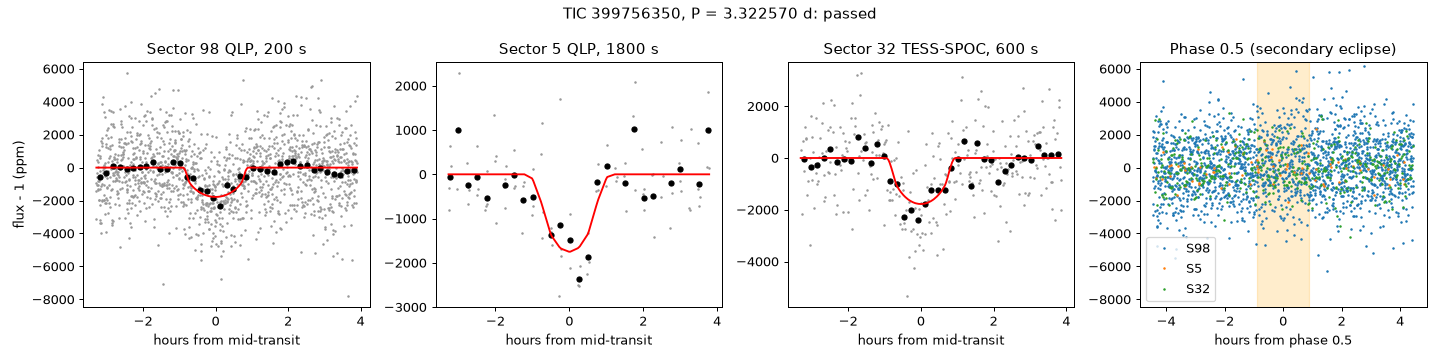
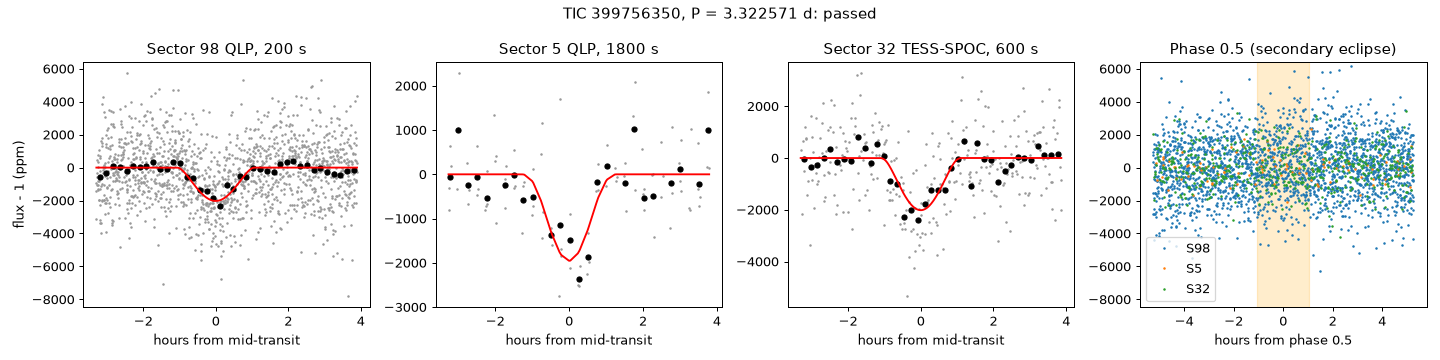
Verify the Sector 98 candidates over all sectors with converged fits: 7 passed, 2 refuted

diff --git a/results/candidate_verification_records/tic450075592_period_11.53197_days.md b/results/candidate_verification_records/tic450075592_period_11.53197_days.md
@@ -8,3 +8,5 @@
 | 2026-10-13 13:40 | 98 | all-sector verification | verify_qlp_sector_candidates_over_all_sectors.py | 9674c6b | refuted | sectors 98 5; P 11.5324515 +/- 0.00845308 d; T0 4016.47915 +/- 0.069076 BTJD; depth 1321 +/- 500 ppm; duration 1.790 h; b 0.450; Rp 4.96 +/- 0.73 Earth radii; density ratio 21.7; odd-even 0.32 sigma; sector depths S98: 1331 +/- 85 (p nan); secondary 223 +/- 73 ppm (planet maximum 1); Gaia RV variable True; LAMOST: none; refuted by: secondary eclipse too deep for a planet; cautions: stellar density does not fit the star; depths differ between sectors; Gaia radial velocity variable |
 | 2026-10-15 18:04 | 98 | search, vetting and known-signal cross-match | cross_match_qlp_sector_signals_with_known_catalogues.py | c5b3cc7 | new candidate | BLS SNR 12.9, MES 12.6, depth 979 ppm, 5 transits; passes the LEO-Vetter false alarm and false positive tests; no TOI, CTOI, TCE or TESS EB match in the catalogues of 2026-10-15 |
 | 2026-10-15 22:52 | 98 | all-sector verification | verify_qlp_sector_candidates_over_all_sectors.py | c651077 | passed | sectors 98 5; P 11.5321413 +/- 0.00190010 d; T0 4016.47900 +/- 0.002973 BTJD; depth 1346 +/- 165 ppm; duration 1.809 h; b 0.476; Rp 5.07 +/- 0.83 Earth radii; density ratio 19.9; odd-even 0.34 sigma; sector depths S98: 1314 +/- 84 (p nan); secondary 171 +/- 70 ppm (planet maximum 1); ellipsoidal -43 +/- 76 ppm (companion mass -3.8 solar masses); Gaia RV variable True, companion mass below 0.533 solar masses; LAMOST: none; refuted by: nothing; cautions: stellar density does not fit the star; depths differ between sectors; Gaia radial velocity variable |
+| 2026-10-16 00:29 | 98 | all-sector verification | verify_qlp_sector_candidates_over_all_sectors.py | a0cf3d7 | refuted | sectors 98 5; P 11.5322544 +/- 0.00118741 d; T0 4016.47827 +/- 0.001788 BTJD; depth 1460 +/- 111 ppm; duration 2.311 h; b 1.179; Rp 35.98 +/- 24.57 Earth radii; density ratio 0.645; odd-even 0.33 sigma; sector depths S98: 1446 +/- 92 (p nan); secondary 166 +/- 63 ppm (planet maximum 287); ellipsoidal -41 +/- 79 ppm (companion mass not detected); Gaia RV variable True, companion mass below 0.533 solar masses; LAMOST: none; refuted by: companion too large for a planet; cautions: grazing transit; depths differ between sectors; Gaia radial velocity variable; transit fit not converged in 100000 steps |
+| 2026-10-16 00:48 | 98 | all-sector verification | verify_qlp_sector_candidates_over_all_sectors.py | 7983853 | passed | sectors 98 5; P 11.5322544 +/- 0.00118741 d; T0 4016.47827 +/- 0.001788 BTJD; depth 1460 +/- 111 ppm; duration 2.311 h; b 1.179; Rp 35.98 +/- 24.57 Earth radii; density ratio 0.645; odd-even 0.33 sigma; sector depths S98: 1446 +/- 92 (p nan); secondary 166 +/- 63 ppm (planet maximum 287); ellipsoidal -41 +/- 79 ppm (companion mass not detected); Gaia RV variable True, companion mass below 0.533 solar masses; LAMOST: none; refuted by: nothing; cautions: grazing transit; depths differ between sectors; Gaia radial velocity variable; transit fit not converged in 100000 steps |

diff --git a/results/candidate_verification_records/tic264626874_period_6.25957_days.md b/results/candidate_verification_records/tic264626874_period_6.25957_days.md
@@ -9,3 +9,5 @@
 | 2026-10-13 14:42 | 98 | TRICERATOPS | validate_qlp_sector_candidates_with_triceratops.py | 9674c6b | validated without imaging | sectors 98 32; FPP 0.01475 +/- 0.023; NFPP 0 +/- 0; most likely scenario TP on TIC 264626874; nearby scenarios excluded: True; 5 runs |
 | 2026-10-15 18:04 | 98 | search, vetting and known-signal cross-match | cross_match_qlp_sector_signals_with_known_catalogues.py | c5b3cc7 | new candidate | BLS SNR 43.5, MES 38.9, depth 1671 ppm, 7 transits; passes the LEO-Vetter false alarm and false positive tests; no TOI, CTOI, TCE or TESS EB match in the catalogues of 2026-10-15 |
 | 2026-10-15 22:52 | 98 | all-sector verification | verify_qlp_sector_candidates_over_all_sectors.py | c651077 | passed | sectors 98 32; P 6.2599674 +/- 0.00000444 d; T0 4011.98303 +/- 0.001072 BTJD; depth 3140 +/- 51 ppm; duration 5.478 h; b 0.743; Rp 17.67 +/- 0.89 Earth radii; density ratio 0.977; odd-even 1.30 sigma; sector depths S98: 2775 +/- 57; S32: 3391 +/- 46 (p 2.7e-17); secondary -19 +/- 34 ppm (planet maximum 156); ellipsoidal 163 +/- 46 ppm (companion mass 0.106 solar masses); Gaia RV variable False, companion mass below 0.264 solar masses; LAMOST: 2014-01-17 STAR A1V at 0.0 arcsec, fibre on the target, RV -14 +/- 0.2 km/s, SNR g 504; 2014-01-17 STAR A2V at 4.6 arcsec, no Gaia source in the fibre, RV -20 +/- 0.2 km/s, SNR g 67; refuted by: nothing; cautions: ellipsoidal variation detected |
+| 2026-10-15 23:04 | 98 | all-sector verification | verify_qlp_sector_candidates_over_all_sectors.py | 9defa92 | passed | sectors 98 32; P 6.2599677 +/- 0.00000441 d; T0 4011.98307 +/- 0.001055 BTJD; depth 3137 +/- 49 ppm; duration 5.482 h; b 0.743; Rp 17.67 +/- 0.89 Earth radii; density ratio 0.974; odd-even 1.30 sigma; sector depths S98: 2774 +/- 57; S32: 3390 +/- 46 (p 2.68e-17); secondary -18 +/- 34 ppm (planet maximum 156); ellipsoidal 163 +/- 45 ppm (companion mass 0.106); Gaia RV variable False, companion mass below 0.264 solar masses; LAMOST: 2014-01-17 STAR A1V at 0.0 arcsec, fibre on the target, RV -14 +/- 0.2 km/s, SNR g 504; 2014-01-17 STAR A2V at 4.6 arcsec, no Gaia source in the fibre, RV -20 +/- 0.2 km/s, SNR g 67; refuted by: nothing; cautions: ellipsoidal variation detected |
+| 2026-10-15 23:26 | 98 | all-sector verification | verify_qlp_sector_candidates_over_all_sectors.py | de3d780 | passed | sectors 98 32; P 6.2599677 +/- 0.00000394 d; T0 4011.98304 +/- 0.000947 BTJD; depth 3136 +/- 45 ppm; duration 5.483 h; b 0.745; Rp 17.68 +/- 0.88 Earth radii; density ratio 0.966; odd-even 1.30 sigma; sector depths S98: 2770 +/- 57; S32: 3385 +/- 45 (p 2.64e-17); secondary -18 +/- 34 ppm (planet maximum 157); ellipsoidal 163 +/- 45 ppm (companion mass 0.105); Gaia RV variable False, companion mass below 0.264 solar masses; LAMOST: 2014-01-17 STAR A1V at 0.0 arcsec, fibre on the target, RV -14 +/- 0.2 km/s, SNR g 504; 2014-01-17 STAR A2V at 4.6 arcsec, no Gaia source in the fibre, RV -20 +/- 0.2 km/s, SNR g 67; refuted by: nothing; cautions: ellipsoidal variation detected |

diff --git a/results/candidate_verification_records/tic4206066_period_11.13279_days.md b/results/candidate_verification_records/tic4206066_period_11.13279_days.md
@@ -9,3 +9,5 @@
 | 2026-10-13 14:50 | 98 | TRICERATOPS | validate_qlp_sector_candidates_with_triceratops.py | 9674c6b | likely planet | sectors 98 6 32; FPP 0.1656 +/- 0.02; NFPP 0 +/- 0; most likely scenario TP on TIC 4206066; nearby scenarios excluded: True; 5 runs |
 | 2026-10-15 18:04 | 98 | search, vetting and known-signal cross-match | cross_match_qlp_sector_signals_with_known_catalogues.py | c5b3cc7 | new candidate | BLS SNR 13.2, MES 11.0, depth 913 ppm, 4 transits; passes the LEO-Vetter false alarm and false positive tests; no TOI, CTOI, TCE or TESS EB match in the catalogues of 2026-10-15 |
 | 2026-10-15 22:53 | 98 | all-sector verification | verify_qlp_sector_candidates_over_all_sectors.py | c651077 | passed | sectors 98 6 32; P 11.1327317 +/- 0.00001334 d; T0 2197.36326 +/- 0.001892 BTJD; depth 1010 +/- 79 ppm; duration 1.571 h; b 0.503; Rp 2.09 +/- 0.28 Earth radii; density ratio 5.29; odd-even 1.14 sigma; sector depths S98: 1191 +/- 89; S6: 865 +/- 118; S32: 693 +/- 131 (p 0.00331); secondary 26 +/- 61 ppm (planet maximum 0); ellipsoidal 81 +/- 393 ppm (companion mass 5.26 solar masses); Gaia RV variable False, companion mass below 0.00965 solar masses; LAMOST: 2014-11-04 STAR dM1 at 1.7 arcsec, fibre on the target, RV -53 +/- 16.6 km/s, SNR g 1; refuted by: nothing; cautions: none |
+| 2026-10-15 23:25 | 98 | all-sector verification | verify_qlp_sector_candidates_over_all_sectors.py | e0000ec-modified | passed | sectors 98 6 32; P 11.1327327 +/- 0.00001153 d; T0 2197.36320 +/- 0.001621 BTJD; depth 1007 +/- 71 ppm; duration 1.577 h; b 0.507; Rp 2.10 +/- 0.28 Earth radii; density ratio 5.25; odd-even 1.13 sigma; sector depths S98: 1185 +/- 88; S6: 862 +/- 118; S32: 691 +/- 130 (p 0.00342); secondary 26 +/- 61 ppm (planet maximum 0); ellipsoidal 36 +/- 386 ppm (companion mass not detected); Gaia RV variable False, companion mass below 0.00965 solar masses; LAMOST: 2014-11-04 STAR dM1 at 1.7 arcsec, fibre on the target, RV -53 +/- 16.6 km/s, SNR g 1; refuted by: nothing; cautions: none |
+| 2026-10-15 23:33 | 98 | all-sector verification | verify_qlp_sector_candidates_over_all_sectors.py | de3d780 | passed | sectors 98 6 32; P 11.1327327 +/- 0.00001153 d; T0 2197.36320 +/- 0.001621 BTJD; depth 1007 +/- 71 ppm; duration 1.577 h; b 0.507; Rp 2.10 +/- 0.28 Earth radii; density ratio 5.25; odd-even 1.13 sigma; sector depths S98: 1185 +/- 88; S6: 862 +/- 118; S32: 691 +/- 130 (p 0.00342); secondary 26 +/- 61 ppm (planet maximum 0); ellipsoidal 36 +/- 386 ppm (companion mass not detected); Gaia RV variable False, companion mass below 0.00965 solar masses; LAMOST: 2014-11-04 STAR dM1 at 1.7 arcsec, fibre on the target, RV -53 +/- 16.6 km/s, SNR g 1; refuted by: nothing; cautions: none |

diff --git a/results/candidate_verification_records/tic399756350_period_3.32134_days.md b/results/candidate_verification_records/tic399756350_period_3.32134_days.md
@@ -9,3 +9,5 @@
 | 2026-10-13 17:26 | 98 | TRICERATOPS | validate_qlp_sector_candidates_with_triceratops.py | 9674c6b | not validated | sectors 98 5 32; FPP 0.7931 +/- 0.012; NFPP 0 +/- 0; most likely scenario SEB on TIC 399756350; nearby scenarios excluded: True; 5 runs |
 | 2026-10-15 18:04 | 98 | search, vetting and known-signal cross-match | cross_match_qlp_sector_signals_with_known_catalogues.py | c5b3cc7 | new candidate | BLS SNR 12.2, MES 9.4, depth 1270 ppm, 13 transits; passes the LEO-Vetter false alarm and false positive tests; no TOI, CTOI, TCE or TESS EB match in the catalogues of 2026-10-15 |
 | 2026-10-15 22:55 | 98 | all-sector verification | verify_qlp_sector_candidates_over_all_sectors.py | c651077 | passed | sectors 98 5 32; P 3.3225704 +/- 0.00000434 d; T0 4010.58281 +/- 0.002290 BTJD; depth 1801 +/- 133 ppm; duration 1.783 h; b 0.667; Rp 4.68 +/- 1.10 Earth radii; density ratio 1.96; odd-even 2.69 sigma; sector depths S98: 1626 +/- 152; S5: 1749 +/- 215; S32: 2068 +/- 191 (p 0.189); secondary -125 +/- 91 ppm (planet maximum 12); ellipsoidal 11 +/- 58 ppm (companion mass 0.0195 solar masses); Gaia RV variable False, companion mass below 0.027 solar masses; LAMOST: none; refuted by: nothing; cautions: none |
+| 2026-10-16 00:41 | 98 | all-sector verification | verify_qlp_sector_candidates_over_all_sectors.py | a0cf3d7 | refuted | sectors 98 5 32; P 3.3225710 +/- 0.00000425 d; T0 4010.58305 +/- 0.002003 BTJD; depth 1923 +/- 123 ppm; duration 2.106 h; b 1.178; Rp 27.21 +/- 17.54 Earth radii; density ratio 0.132; odd-even 2.75 sigma; sector depths S98: 1701 +/- 157; S5: 1783 +/- 220; S32: 2139 +/- 197 (p 0.207); secondary -96 +/- 84 ppm (planet maximum 3320); ellipsoidal 7 +/- 56 ppm (companion mass not detected); Gaia RV variable False, companion mass below 0.027 solar masses; LAMOST: none; refuted by: companion too large for a planet; cautions: grazing transit; transit fit not converged in 100000 steps |
+| 2026-10-16 00:59 | 98 | all-sector verification | verify_qlp_sector_candidates_over_all_sectors.py | 7983853 | passed | sectors 98 5 32; P 3.3225710 +/- 0.00000425 d; T0 4010.58305 +/- 0.002003 BTJD; depth 1923 +/- 123 ppm; duration 2.106 h; b 1.178; Rp 27.21 +/- 17.54 Earth radii; density ratio 0.132; odd-even 2.75 sigma; sector depths S98: 1701 +/- 157; S5: 1783 +/- 220; S32: 2139 +/- 197 (p 0.207); secondary -96 +/- 84 ppm (planet maximum 3320); ellipsoidal 7 +/- 56 ppm (companion mass not detected); Gaia RV variable False, companion mass below 0.027 solar masses; LAMOST: none; refuted by: nothing; cautions: grazing transit; transit fit not converged in 100000 steps |

diff --git a/results/candidate_verification_records/tic220027980_period_2.85220_days.md b/results/candidate_verification_records/tic220027980_period_2.85220_days.md
@@ -8,3 +8,4 @@
 | 2026-10-13 13:42 | 98 | all-sector verification | verify_qlp_sector_candidates_over_all_sectors.py | 9674c6b | refuted | sectors 98 4 5 6 31 32 33; P 2.8515098 +/- 0.00528653 d; T0 4003.22822 +/- 0.032721 BTJD; depth 780 +/- 2410 ppm; duration 1.919 h; b 0.649; Rp 5.33 +/- 19.74 Earth radii; density ratio 3; odd-even 3.64 sigma; sector depths S4: 314 +/- 67; S5: 493 +/- 62; S6: 474 +/- 68; S31: 285 +/- 66; S32: 353 +/- 67; S33: 303 +/- 66 (p 0.0834); secondary 96 +/- 41 ppm (planet maximum 15); Gaia RV variable True; LAMOST: none; refuted by: odd and even depths differ; cautions: depths differ between sectors; Gaia radial velocity variable |
 | 2026-10-15 18:04 | 98 | search, vetting and known-signal cross-match | cross_match_qlp_sector_signals_with_known_catalogues.py | c5b3cc7 | new candidate | BLS SNR 10.6, MES 9.6, depth 1024 ppm, 19 transits; passes the LEO-Vetter false alarm and false positive tests; no TOI, CTOI, TCE or TESS EB match in the catalogues of 2026-10-15 |
 | 2026-10-15 22:55 | 98 | all-sector verification | verify_qlp_sector_candidates_over_all_sectors.py | c651077 | refuted | sectors 98 4 5 6 31 32 33; P 2.8514910 +/- 0.00315993 d; T0 4003.21282 +/- 0.035848 BTJD; depth 768 +/- 2037 ppm; duration 1.915 h; b 0.402; Rp 3.63 +/- 18.56 Earth radii; density ratio 3.45; odd-even 3.87 sigma; sector depths S98: 3560 +/- 1905; S4: 549 +/- 117; S5: 866 +/- 108; S6: 853 +/- 119; S31: 615 +/- 115; S32: 765 +/- 117; S33: 645 +/- 116 (p 0.184); secondary 72 +/- 41 ppm (planet maximum 6); ellipsoidal -43 +/- 57 ppm (companion mass -0.0578 solar masses); Gaia RV variable True, companion mass below 0.117 solar masses; LAMOST: none; refuted by: odd and even depths differ; cautions: depths differ between sectors; Gaia radial velocity variable |
+| 2026-10-15 23:47 | 98 | all-sector verification | verify_qlp_sector_candidates_over_all_sectors.py | de3d780 | refuted | sectors 98 4 5 6 31 32 33; P 2.8513309 +/- 0.00000229 d; T0 4003.08233 +/- 0.001412 BTJD; depth 1318 +/- 75 ppm; duration 1.146 h; b 0.506; Rp 4.76 +/- 0.53 Earth radii; density ratio 13.4; odd-even 5.78 sigma; sector depths S98: 1145 +/- 110; S4: 996 +/- 169; S5: 1338 +/- 148; S6: 1216 +/- 164; S31: 1265 +/- 154; S32: 1593 +/- 157; S33: 1299 +/- 156 (p 0.206); secondary -45 +/- 54 ppm (planet maximum 4); ellipsoidal -33 +/- 52 ppm (companion mass not detected); Gaia RV variable True, companion mass below 0.117 solar masses; LAMOST: none; refuted by: odd and even depths differ; cautions: stellar density does not fit the star; Gaia radial velocity variable |

diff --git a/results/candidate_verification_records/tic139446032_period_0.57678_days.md b/results/candidate_verification_records/tic139446032_period_0.57678_days.md
@@ -7,3 +7,4 @@
 | 2026-10-13 13:24 | 98 | pixel check | check_qlp_sector_candidate_pixels.py | 9674c6b | too faint | S5 too faint (SNR 3.8, best star Gaia DR3 2969049834470758656); S6 too faint (SNR 4.9, best star TIC 139446032); S32 too faint (SNR 4.9, best star TIC 139446032); S98 too faint (SNR 5.0, best star TIC 139446032); S107 too faint (SNR 1.0, best star Gaia DR3 2969050044927997312); S108 too faint (SNR 1.6, best star Gaia DR3 2969049014131748864) |
 | 2026-10-15 18:04 | 98 | search, vetting and known-signal cross-match | cross_match_qlp_sector_signals_with_known_catalogues.py | c5b3cc7 | new candidate | BLS SNR 12.8, MES 9.6, depth 265 ppm, 91 transits; passes the LEO-Vetter false alarm and false positive tests; no TOI, CTOI, TCE or TESS EB match in the catalogues of 2026-10-15 |
 | 2026-10-15 23:04 | 98 | pixel check | check_qlp_sector_candidate_pixels.py | 836b1a8 | on target | S5 too faint (SNR 3.8, best star Gaia DR3 2969049834470758656); S6 too faint (SNR 4.9, best star TIC 139446032); S32 too faint (SNR 4.9, best star TIC 139446032); S98 too faint (SNR 5.0, best star TIC 139446032); S107 too faint (SNR 1.0, best star Gaia DR3 2969050044927997312); S108 too faint (SNR 1.6, best star Gaia DR3 2969049014131748864); S109 error: IndexError: index 0 is out of bounds for axis 0 with size 0; all sectors together on target (SNR 8.6, best star TIC 139446032) |
+| 2026-10-16 00:11 | 98 | all-sector verification | verify_qlp_sector_candidates_over_all_sectors.py | de3d780 | refuted | sectors 98 5 6 32; P 0.5768440 +/- 0.00000096 d; T0 4010.89400 +/- 0.001712 BTJD; depth 303 +/- 34 ppm; duration 1.180 h; b 0.467; Rp 3.05 +/- 0.28 Earth radii; density ratio 3.68; odd-even 0.18 sigma; sector depths S98: 342 +/- 39; S5: 308 +/- 78; S6: 182 +/- 80; S32: 170 +/- 88 (p 0.138); secondary 285 +/- 31 ppm (planet maximum 50); ellipsoidal 183 +/- 23 ppm (companion mass 0.0142); Gaia RV variable False, companion mass below 0.0626 solar masses; LAMOST: none; refuted by: secondary eclipse too deep for a planet; cautions: depths differ between sectors; ellipsoidal variation detected |

diff --git a/results/candidate_verification_records/tic220073982_period_0.63450_days.md b/results/candidate_verification_records/tic220073982_period_0.63450_days.md
@@ -9,3 +9,4 @@
 | 2026-10-15 10:12 | 98 | TRICERATOPS | validate_qlp_sector_candidates_with_triceratops.py | 9674c6b | likely planet | sectors 98 6 32; FPP 0.09146 +/- 0.0032; NFPP 0 +/- 0; most likely scenario TP on TIC 220073982; nearby scenarios excluded: True; 5 runs |
 | 2026-10-15 18:04 | 98 | search, vetting and known-signal cross-match | cross_match_qlp_sector_signals_with_known_catalogues.py | c5b3cc7 | new candidate | BLS SNR 8.0, MES 7.8, depth 220 ppm, 45 transits; passes the LEO-Vetter false alarm and false positive tests; no TOI, CTOI, TCE or TESS EB match in the catalogues of 2026-10-15 |
 | 2026-10-15 23:00 | 98 | all-sector verification | verify_qlp_sector_candidates_over_all_sectors.py | c651077 | passed | sectors 98 6 32; P 0.6340068 +/- 0.00000158 d; T0 2188.37846 +/- 0.004711 BTJD; depth 184 +/- 22 ppm; duration 1.881 h; b 0.459; Rp 2.69 +/- 0.30 Earth radii; density ratio 1.59; odd-even 0.49 sigma; sector depths S98: 201 +/- 24; S6: 100 +/- 38; S32: 188 +/- 29 (p 0.0734); secondary 91 +/- 17 ppm (planet maximum 60); ellipsoidal -71 +/- 16 ppm (companion mass -0.00195 solar masses); Gaia RV variable False, companion mass below 0.15 solar masses; LAMOST: none; refuted by: nothing; cautions: secondary eclipse detected |
+| 2026-10-16 00:03 | 98 | all-sector verification | verify_qlp_sector_candidates_over_all_sectors.py | de3d780 | passed | sectors 98 6 32; P 0.6340068 +/- 0.00000132 d; T0 2188.37825 +/- 0.004048 BTJD; depth 185 +/- 20 ppm; duration 1.906 h; b 0.403; Rp 2.64 +/- 0.24 Earth radii; density ratio 1.69; odd-even 0.48 sigma; sector depths S98: 202 +/- 24; S6: 101 +/- 38; S32: 190 +/- 29 (p 0.0723); secondary 91 +/- 16 ppm (planet maximum 56); ellipsoidal -69 +/- 18 ppm (companion mass not detected); Gaia RV variable False, companion mass below 0.15 solar masses; LAMOST: none; refuted by: nothing; cautions: secondary eclipse detected |

diff --git a/results/candidate_verification_records/tic121564843_period_0.81803_days.md b/results/candidate_verification_records/tic121564843_period_0.81803_days.md
@@ -7,3 +7,4 @@
 | 2026-10-13 13:27 | 98 | pixel check | check_qlp_sector_candidate_pixels.py | 9674c6b | too faint | S98 too faint (SNR 4.0, best star Gaia DR3 2978034081419676416); S106 too faint (SNR 2.5, best star Gaia DR3 2978022265966481664); S107 too faint (SNR 3.0, best star Gaia DR3 2978034081419676416); S108 too faint (SNR 3.0, best star Gaia DR3 2978033879558053120) |
 | 2026-10-15 18:04 | 98 | search, vetting and known-signal cross-match | cross_match_qlp_sector_signals_with_known_catalogues.py | c5b3cc7 | new candidate | BLS SNR 15.4, MES 9.1, depth 298 ppm, 63 transits; passes the LEO-Vetter false alarm and false positive tests; no TOI, CTOI, TCE or TESS EB match in the catalogues of 2026-10-15 |
 | 2026-10-15 23:04 | 98 | pixel check | check_qlp_sector_candidate_pixels.py | 836b1a8 | unresolved | S98 too faint (SNR 4.0, best star Gaia DR3 2978034081419676416); S106 too faint (SNR 2.5, best star Gaia DR3 2978022265966481664); S107 too faint (SNR 3.0, best star Gaia DR3 2978034081419676416); S108 too faint (SNR 3.0, best star Gaia DR3 2978033879558053120); S109 error: IndexError: index 0 is out of bounds for axis 0 with size 0; all sectors together unresolved (SNR 5.4, best star Gaia DR3 2978034081419676416) |
+| 2026-10-16 00:18 | 98 | all-sector verification | verify_qlp_sector_candidates_over_all_sectors.py | de3d780 | passed | sectors 98 106 107; P 0.8179751 +/- 0.00000809 d; T0 4240.28625 +/- 0.001697 BTJD; depth 352 +/- 31 ppm; duration 2.358 h; b 0.450; Rp 3.91 +/- 0.23 Earth radii; density ratio 1.32; odd-even 0.07 sigma; sector depths S98: 375 +/- 41; S106: 265 +/- 74; S107: 372 +/- 71 (p 0.406); secondary 88 +/- 35 ppm (planet maximum 107); ellipsoidal 126 +/- 31 ppm (companion mass 0.00332); Gaia RV variable False, companion mass below 0.0707 solar masses; LAMOST: none; refuted by: nothing; cautions: ellipsoidal variation detected |

diff --git a/results/candidate_verification_records/tic332913693_period_1.50721_days.md b/results/candidate_verification_records/tic332913693_period_1.50721_days.md
@@ -9,3 +9,4 @@
 | 2026-10-13 17:02 | 98 | TRICERATOPS | validate_qlp_sector_candidates_with_triceratops.py | 9674c6b | not validated | sectors 98 6; FPP 0.5179 +/- 0.07; NFPP 0 +/- 0; most likely scenario BEBx2P on TIC 332913693; nearby scenarios excluded: True; 5 runs |
 | 2026-10-15 18:04 | 98 | search, vetting and known-signal cross-match | cross_match_qlp_sector_signals_with_known_catalogues.py | c5b3cc7 | new candidate | BLS SNR 15.2, MES 10.1, depth 296 ppm, 28 transits; passes the LEO-Vetter false alarm and false positive tests; no TOI, CTOI, TCE or TESS EB match in the catalogues of 2026-10-15 |
 | 2026-10-15 22:54 | 98 | all-sector verification | verify_qlp_sector_candidates_over_all_sectors.py | c651077 | passed | sectors 98 6; P 1.5070550 +/- 0.00000244 d; T0 4015.78914 +/- 0.002587 BTJD; depth 473 +/- 28 ppm; duration 2.438 h; b 0.390; Rp nan +/- nan Earth radii; density ratio nan; odd-even 1.97 sigma; sector depths S98: 433 +/- 28; S6: 467 +/- 35 (p 0.449); secondary -14 +/- 21 ppm (planet maximum nan); ellipsoidal -60 +/- 109 ppm (companion mass nan solar masses); Gaia RV variable False, companion mass below unknown solar masses; LAMOST: none; refuted by: nothing; cautions: stellar density does not fit the star |
+| 2026-10-15 23:34 | 98 | all-sector verification | verify_qlp_sector_candidates_over_all_sectors.py | de3d780 | passed | sectors 98 6; P 1.5070547 +/- 0.00000212 d; T0 4015.78862 +/- 0.002424 BTJD; depth 472 +/- 27 ppm; duration 2.479 h; b 0.349; Rp nan +/- nan Earth radii; density ratio nan; odd-even 1.96 sigma; sector depths S98: 437 +/- 29; S6: 471 +/- 35 (p 0.455); secondary -14 +/- 21 ppm (planet maximum nan); ellipsoidal -64 +/- 115 ppm (companion mass not detected); Gaia RV variable False, companion mass below unknown solar masses; LAMOST: none; refuted by: nothing; cautions: stellar density does not fit the star |
